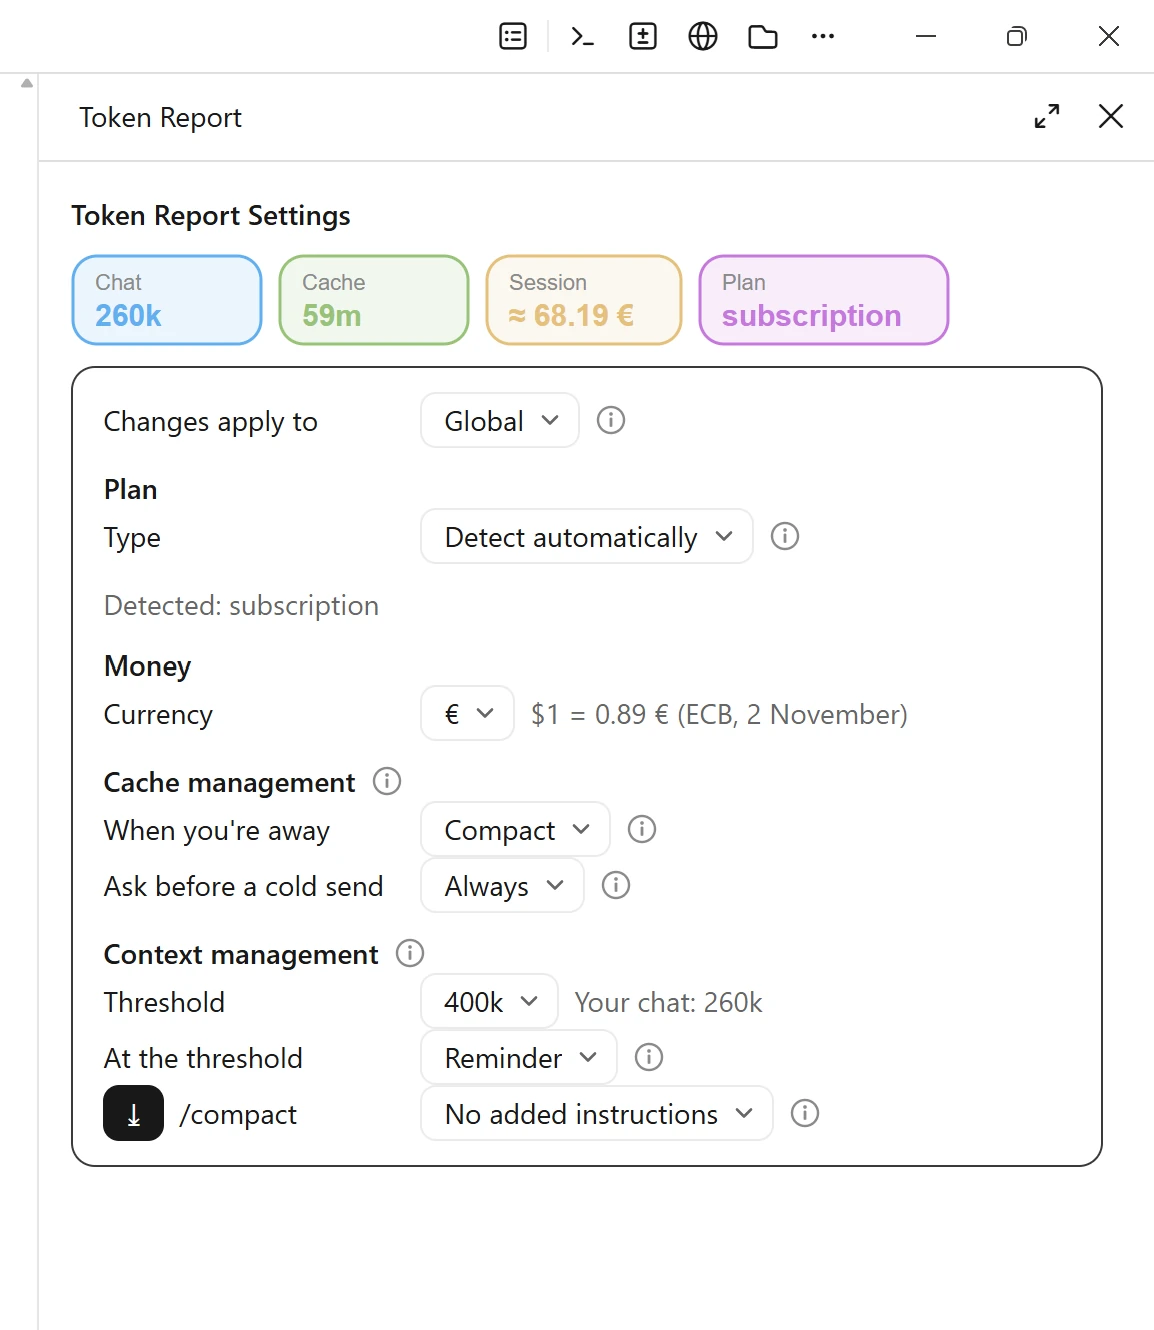
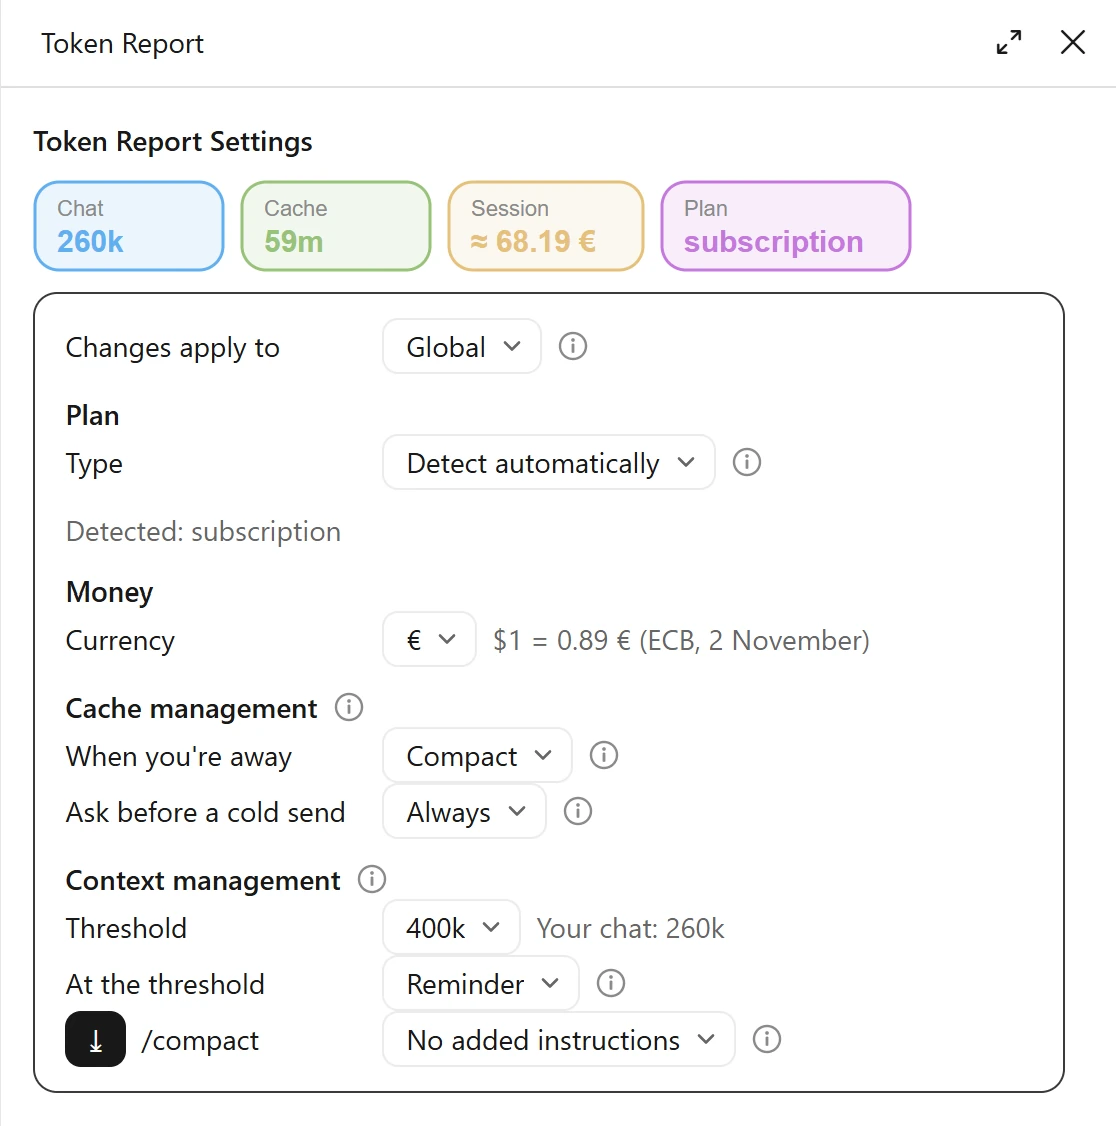
token-report README: images in their sections, dialog and Settings cropped to the mod

diff --git a/token-report/README.md b/token-report/README.md
@@ -8,20 +8,6 @@
 | **Context.** The chat grows quietly until Claude Code compacts it at its own limit. | The band shows the chat's size and how much the last turn added. At your threshold it reminds you, asks or compacts. |
 | **Cost.** You don't see what a session costs, or how much of your plan is left. | The band shows the session's cost (at API prices on a subscription) and your 5-hour and weekly limits. |
 
-## Real use
-
-**When the cache has gone cold, the band says what the next send costs.**
-
-<img src="../visual-assets/token-report/band-cold.webp" width="720" alt="Real band (marked): Context 133k, the cache cold, the next send rewriting 133k for about 0.95 €, Session about 16.15 €, Weekly 36%.">
-
-**Before an expensive send on a cold cache, it asks.**
-
-<img src="../visual-assets/token-report/cold-dialog.webp" width="440" alt="Real dialog (marked), in a desktop app set to German: Your chat went cold. Sending reloads all 124k (about 0.55 €). Compacting first costs about the same now, but every later message is cheaper. Choices: Send anyway, Compact, then send, Cancel. Below it the band, with the cache working.">
-
-**The Settings pane: what happens to the cache and the chat while you are away, and at your threshold.**
-
-<img src="../visual-assets/token-report/settings.webp" width="440" alt="Real Settings pane: cards for Chat 260k, Cache 59m, Session about 68.19 €, Plan subscription, then the groups Plan, Money, Cache management and Context management.">
-
 ## The band
 
 - **Context** in tokens, with the growth of the last turn. It turns orange and then red as it nears your threshold.
@@ -30,7 +16,15 @@
 - **Plan limits** (5 hours and weekly) with their reset time, on a subscription.
 - **⤓** compacts the chat now, while the cache is warm.
 
+Once the cache has gone cold, the band says what the next send costs:
+
+<img src="../visual-assets/token-report/band-cold.webp" width="720" alt="The band (marked): Context 133k, the cache cold, the next send rewriting 133k for about 0.95 €, Session about 16.15 €, Weekly 36%.">
+
 ## Settings
+
+**≣ Report** on the band, or `/tokens`, opens the Settings pane. The four cards on top show the chat's size, the cache, the session's cost and your plan. Below them, the settings in four groups: Plan, Money, Cache management and Context management.
+
+<img src="../visual-assets/token-report/settings.webp" width="440" alt="The Settings pane: cards for Chat 260k, Cache 59m, Session about 68.19 €, Plan subscription, then the groups Plan, Money, Cache management and Context management.">
 
 Settings apply to:
 
@@ -63,6 +57,9 @@ Two questions, four choices:
 | /compact | No added instructions, Added instructions | None |
 
 - **Ask before a cold send.** If the cache has gone cold and your message would cost more than the amount you set, a dialog asks first. Its choices are **Send anyway**, **Compact, then send** (your message goes again on the small chat), or **Cancel**. Closing the dialog cancels. If Claude Code already wrote an idle summary, the middle choice is **Use the summary**.
+
+  <img src="../visual-assets/token-report/cold-dialog.webp" width="400" alt="The cold-send dialog, in a desktop app set to German: Your chat went cold. Sending reloads all 124k (about 0.55 €). Compacting first costs about the same now, but every later message is cheaper. Choices: Send anyway, Compact, then send, Cancel.">
+
 - **At the threshold.** The Reminder and Ask come back every further 100k.
 - **/compact instructions** go with every compaction the mod starts and with Claude Code's idle summary.
 
